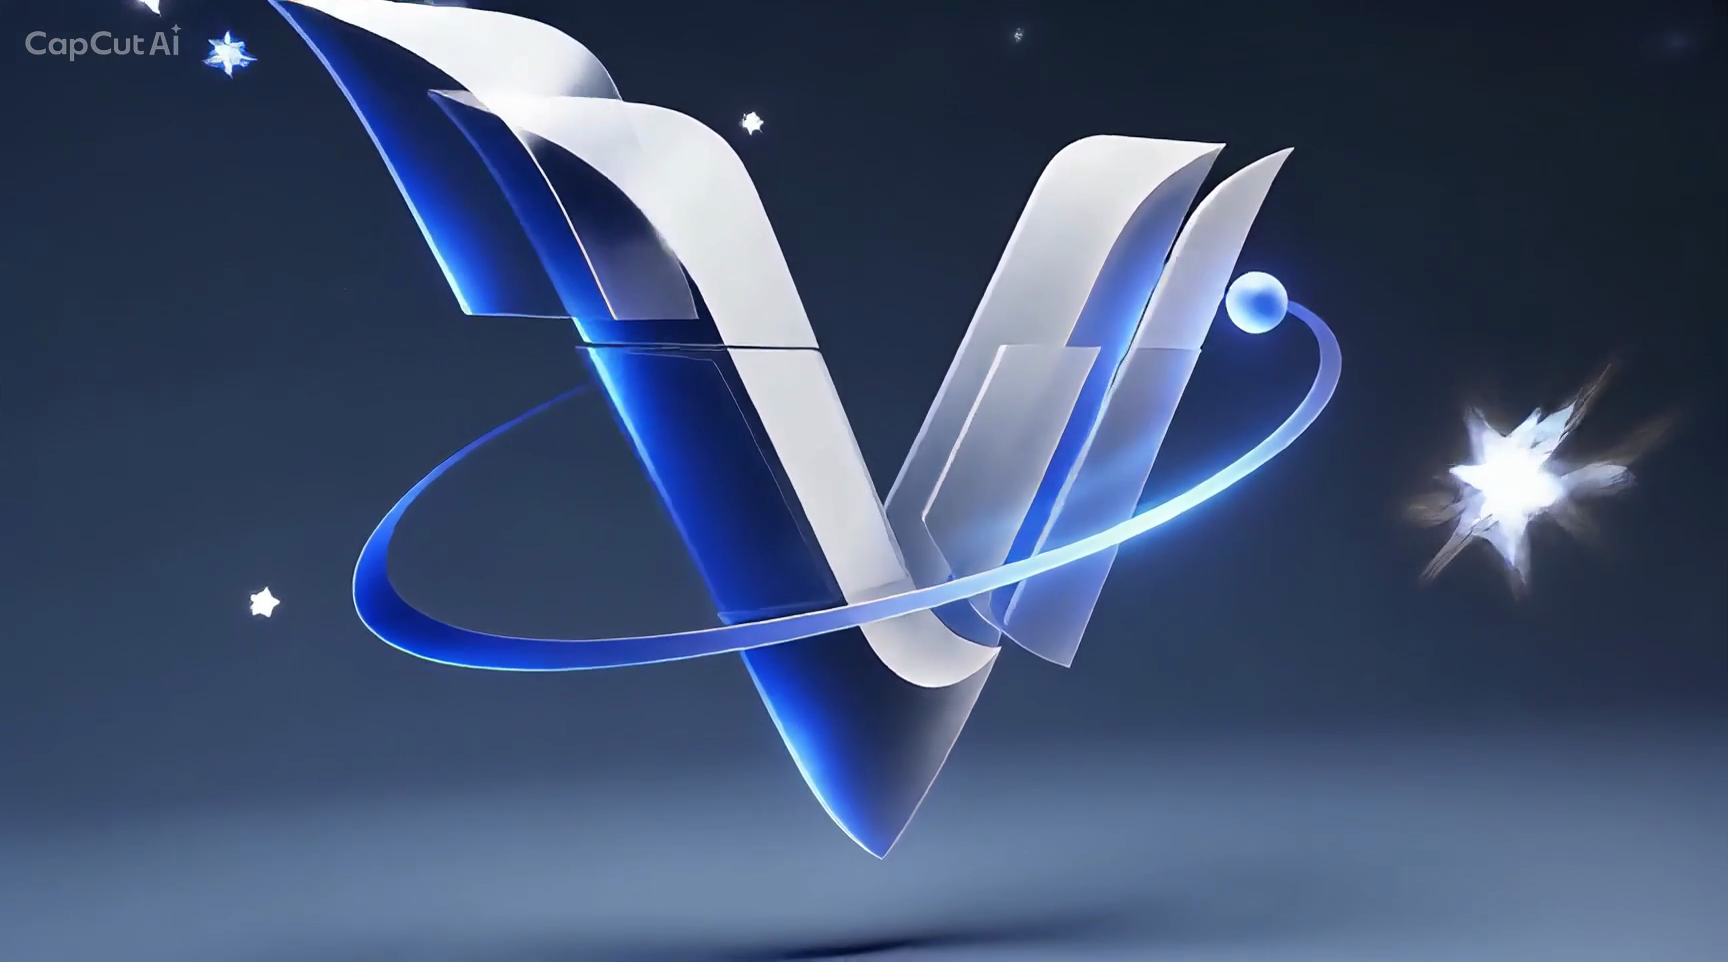
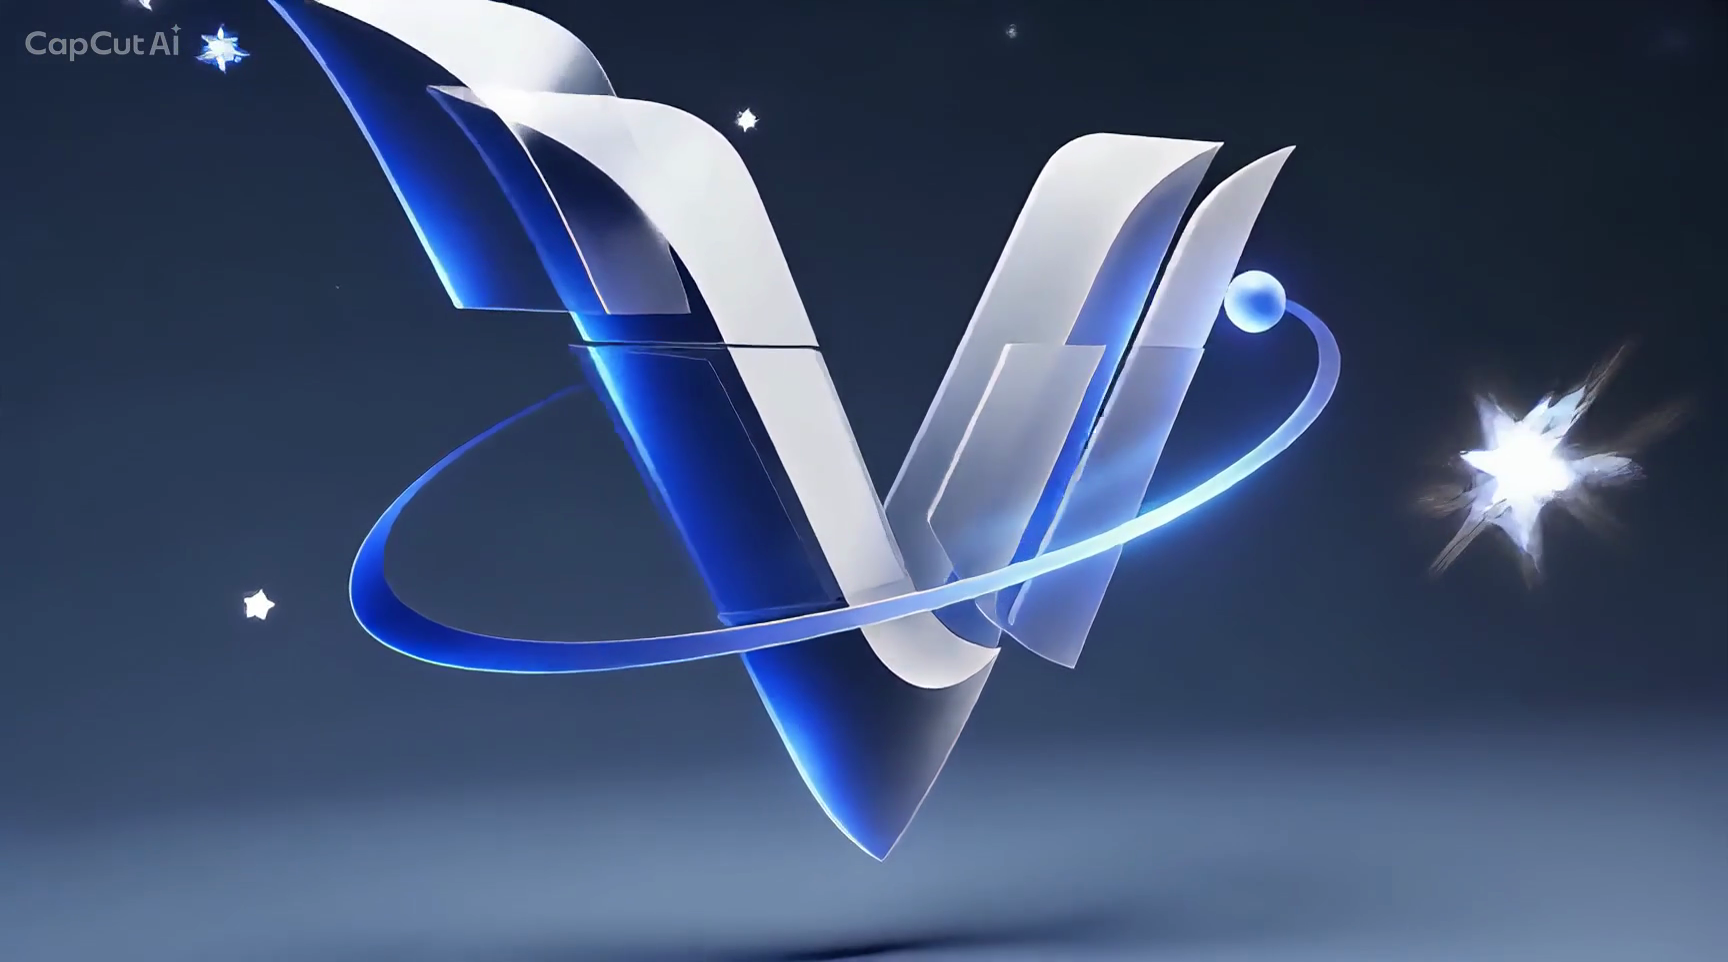
added the main video scroll efect on desktop

diff --git a/src/Pages/Aboutpage/Aboutmainpage/Aboutmainpage.jsx b/src/Pages/Aboutpage/Aboutmainpage/Aboutmainpage.jsx
@@ -1,0 +1,91 @@
+import {React, useState, useRef} from "react";
+import ImageLoder from "./ImgLoader";
+import { useMediaQuery } from "react-responsive";
+import gsap from "gsap";
+import { ScrollTrigger } from "gsap/ScrollTrigger";
+import { useGSAP } from "@gsap/react";
+import './Aboutmainpage.css'
+
+gsap.registerPlugin(ScrollTrigger)
+
+function DeaktopAnimationScroll(){
+    const [count, setCount] = useState(0)
+    const container = useRef(null)
+
+    useGSAP(()=>{
+    const counter = { count: 0 };
+
+    gsap.to(counter, {
+        count: ImageLoder.length -1,
+        duration: 3,
+        ease: "none",
+        scrollTrigger:{
+            trigger:container.current,
+            start:"bottom bottom",
+            end:"bottom top",
+            markers:false,
+            scrub: true,
+            pin:true
+        },
+        onUpdate: () => {
+            setCount(Math.round(counter.count))
+        }
+    });
+
+    gsap.from(".scroll-about-page-img",{
+        opacity:0,
+        scale:0.15,
+        y:200,
+        scrollTrigger:{
+            trigger:container.current,
+            start:"top bottom",
+            end:"top top",
+            scrub:true,
+            markers:false
+        }
+    })
+        
+    },{scope:container})
+
+    return(
+        <>
+        <div className="triger-anime">
+            <div ref={container} className="img-scroll-animation-container">
+                {ImageLoder[count] && (
+                    <img src={ImageLoder[count]} className="scroll-about-page-img" alt={`Frame ${count}`} />
+                )}
+            </div>
+        </div>
+        
+        </>
+    )
+}
+
+function DeaktopAboutMainPage(){
+    
+    return(
+        <>
+        <section className="about-page-main-section">
+            <div className="about-page-main-container">
+                <DeaktopAnimationScroll />
+                <div className="about-page-content-container">
+
+                </div>
+            </div>
+        </section>
+        <div className="h"></div>
+        </>
+    )
+}
+
+function AboutMainPage(){
+    const Desktop = useMediaQuery({query:'(min-width: 1224px)'})
+
+    return(
+        <>
+        { Desktop && <DeaktopAboutMainPage /> }
+        </>
+    )
+}
+
+export default AboutMainPage

diff --git a/src/Pages/Aboutpage/Aboutmainpage/ImgLoader.jsx b/src/Pages/Aboutpage/Aboutmainpage/ImgLoader.jsx
@@ -1,0 +1,27 @@
+import imgOne from '../../../assets/frames_img/frame00001.png'
+import imgTwo from '../../../assets/frames_img/frame00011.png'
+import imgThree from '../../../assets/frames_img/frame00021.png'
+import imgFour from '../../../assets/frames_img/frame00031.png'
+import imgFive from '../../../assets/frames_img/frame00041.png'
+import imgSix from '../../../assets/frames_img/frame00051.png'
+import imgSeven from '../../../assets/frames_img/frame00061.png'
+import imgEight from '../../../assets/frames_img/frame00071.png'
+import imgNine from '../../../assets/frames_img/frame00081.png'
+import imgTen from '../../../assets/frames_img/frame00091.png'
+import imgEleven from '../../../assets/frames_img/frame00101.png'
+import imgTwelf from '../../../assets/frames_img/frame00111.png'
+import imgThertine from '../../../assets/frames_img/frame00121.png'
+import imgFourtine from '../../../assets/frames_img/frame00131.png'
+import imgFivetine from '../../../assets/frames_img/frame00141.png'
+import imgSixten from '../../../assets/frames_img/frame00151.png'
+import imgSeventen from '../../../assets/frames_img/frame00161.png'
+import imgEighten from '../../../assets/frames_img/frame00171.png'
+import imgNineten from '../../../assets/frames_img/frame00181.png'
+import imgTwenty from '../../../assets/frames_img/frame00191.png'
+import imgTwentyOne from '../../../assets/frames_img/frame00201.png'
+
+
+const Frames = [imgOne, imgTwo, imgThree, imgFour, imgFive, imgSix, imgSeven, imgEight, imgNine, imgTen, imgEleven, imgTwelf, imgThertine, imgFourtine, imgFivetine, imgSixten, imgSeventen, imgEighten, imgNineten, imgTwenty, imgTwentyOne];
+
+
+export default Frames

diff --git a/src/Pages/Aboutpage/Aboutmainpage/Aboutmainpage.css b/src/Pages/Aboutpage/Aboutmainpage/Aboutmainpage.css
@@ -1,0 +1,31 @@
+.about-page-main-section{
+    width: 100%;
+    position: relative;
+}
+.about-page-main-container{
+    height: 100%;
+    width: 100%;
+    position: relative;
+    display: flex;
+    justify-content: center;
+    align-items: center;
+    flex-direction: column;
+    gap: 0px;
+}
+.img-scroll-animation-container{
+    height: 100%;
+    width: 100%;
+    overflow: hidden;
+    position: relative;
+}
+
+.img-scroll-animation-container img{
+    height: 100%;
+    width: 100%;
+    object-fit: fill;
+}
+.about-page-content-container{
+    height: auto;
+  
+}
+

diff --git a/src/Pages/Aboutpage/Aboutpage.jsx b/src/Pages/Aboutpage/Aboutpage.jsx
@@ -1,12 +1,14 @@
 import React from "react";
 import Navigationbar from "../../components/Navigationbar/Nav";
 import AboutPageHeroSection from "./Herosection/AboutPageHeroSection";
+import AboutMainPage from "./Aboutmainpage/Aboutmainpage";
 
 function AboutPage(){
     return(
         <>
             <Navigationbar />
             <AboutPageHeroSection />
+            <AboutMainPage />
         </>
     )
 }
